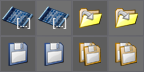
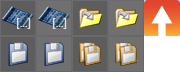
Add upgrade button

diff --git a/README.md b/README.md
@@ -51,11 +51,16 @@ If you used the exe installer, your output folder is: %appdata%\Factorio\script-
 ---
 
 ####Features
+Factorio 0.12.32 broke old blueprints.  You can click the ![Upgrade](http://davemcw.com/factorio/images/blueprint-icon-5.png) button while holding a blueprint to fix them. It may take several clicks to fix rail blueprints.
+
 This mod has strict error checking, so bad strings will not crash your game or mess it up.  Please report any strings that do!
 
 ---
 
 ####Changelog
+Version 2.4.0
+- Added upgrade button
+
 Version 2.3.2
 - Buttons compatible with Factorio 0.12.32
 
